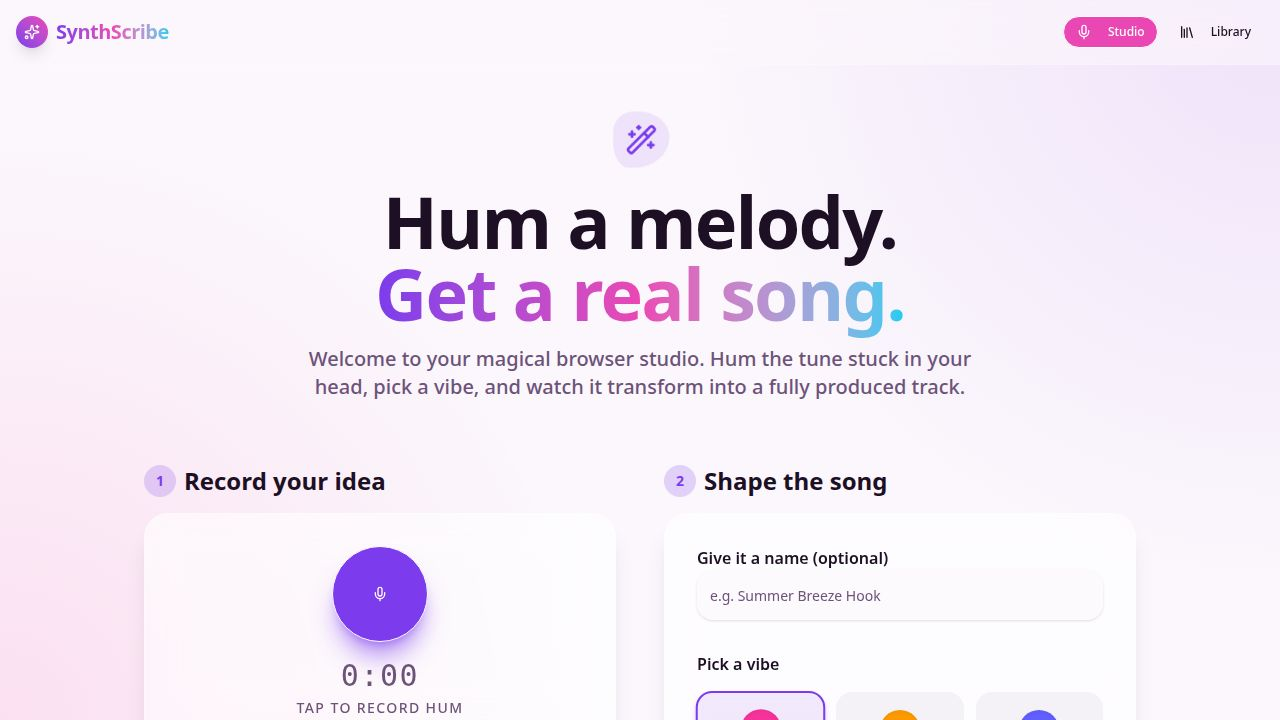
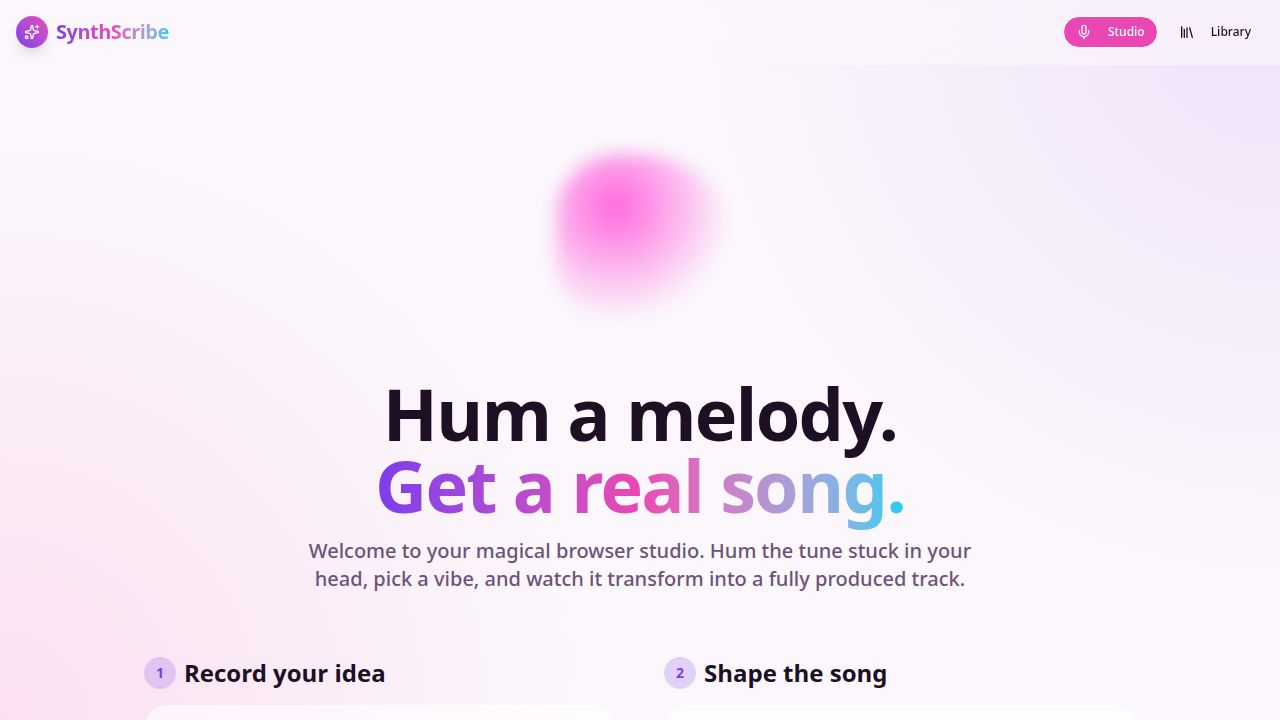
Add hum-matched AI lyric drafting (Task #34)
Users can enter a theme and get lyrics written to fit their hummed melody,
then sung by ElevenLabs.

- Backend: new lib/lyrics.ts builds a per-line syllable scaffold from the hum's
  extracted melody notes (gap segmentation, stress detection, contour, mood),
  with a self-contained heuristic syllable counter (no npm dep) and a draft +
  repair loop (±1 syllable tolerance, 2 passes). New lib/nvidia.ts calls a
  user-supplied NVIDIA-hosted Mistral model (OpenAI-compatible; env NVIDIA_API_KEY,
  override NVIDIA_BASE_URL / NVIDIA_MODEL).
- New `theme` column on projects; standalone POST /api/lyrics/draft endpoint
  (re-uploads hum, returns lyrics+key+tempo+lineCount, 503 if NVIDIA unset);
  pipeline auto-drafts when theme is set and lyrics are blank.
- API spec: theme on CreateProjectRequest/Project, /lyrics/draft path + schemas;
  codegen run, TS2308 collision fixed via explicit type re-exports in api-zod.
- Frontend: "What's it about?" theme field + "Write from my hum" button on Home
  (useDraftLyrics); theme shown on Project page.

Why NVIDIA (not OpenAI): OpenAI via Replit AI Integrations was blocked by phone
verification; user supplied an NVIDIA key instead.

Tested: draft endpoint returns 10 melody-matched lines for a synthetic hum;
both typechecks and codegen pass; UI verified via screenshot.

diff --git a/artifacts/api-server/src/lib/lyrics.ts b/artifacts/api-server/src/lib/lyrics.ts
@@ -196,12 +196,20 @@ async function repairLines(
   scaffold: Scaffold,
   theme: string,
 ): Promise<string[]> {
-  let working = [...lines];
+  // Force the array to have exactly one slot per scaffold line: pad short
+  // outputs with blanks (to be written) and drop any extra lines the model
+  // produced beyond the melody.
+  let working = scaffold.lines.map((_, idx) => (lines[idx] ?? "").trim());
+
   for (let pass = 0; pass < MAX_REPAIR_PASSES; pass++) {
+    // A line is an offender if it is missing entirely or off its syllable target.
     const offenders: number[] = [];
-    working.forEach((line, idx) => {
-      const target = scaffold.lines[idx];
-      if (!target) return;
+    scaffold.lines.forEach((target, idx) => {
+      const line = working[idx];
+      if (!line) {
+        offenders.push(idx);
+        return;
+      }
       const got = countLineSyllables(line);
       if (Math.abs(got - target.syllables) > SYLLABLE_TOLERANCE) {
         offenders.push(idx);
@@ -212,8 +220,12 @@ async function repairLines(
     const fixList = offenders
       .map((idx) => {
         const target = scaffold.lines[idx];
-        const got = countLineSyllables(working[idx]);
-        return `Line ${idx + 1} (currently ${got} syllables, needs exactly ${target.syllables}): "${working[idx]}"`;
+        const line = working[idx];
+        if (!line) {
+          return `Line ${idx + 1} (MISSING — write a new line of exactly ${target.syllables} syllables that fits the song)`;
+        }
+        const got = countLineSyllables(line);
+        return `Line ${idx + 1} (currently ${got} syllables, needs exactly ${target.syllables}): "${line}"`;
       })
       .join("\n");
 
@@ -223,11 +235,11 @@ async function repairLines(
           {
             role: "system",
             content:
-              "You are a precise lyric editor. Rewrite only the requested lines so each has the EXACT requested syllable count, keeping the same meaning, rhyme, and theme. Reply with one rewritten line per requested line, in the same order, and nothing else.",
+              "You are a precise lyric editor. Rewrite or write the requested lines so each has the EXACT requested syllable count, keeping the same meaning, rhyme, and theme. Reply with one line per requested line, in the same order, and nothing else.",
           },
           {
             role: "user",
-            content: `Theme: ${theme}\n\nRewrite these lines to their exact syllable counts:\n${fixList}`,
+            content: `Theme: ${theme}\n\nProvide these lines at their exact syllable counts:\n${fixList}`,
           },
         ],
         { temperature: 0.6, maxTokens: 400 },
@@ -282,11 +294,26 @@ export async function draftLyrics(opts: {
     { temperature: 0.85, maxTokens: 700 },
   );
 
-  let lines = parseLines(content, scaffold.lines.length);
-  if (lines.length === 0) {
+  const parsed = parseLines(content, scaffold.lines.length);
+  if (parsed.length === 0) {
     throw new Error("Model returned no usable lyric lines");
   }
-  lines = await repairLines(lines, scaffold, opts.theme);
+  // repairLines returns exactly one slot per scaffold line; it fills missing
+  // lines and fixes off-target syllable counts.
+  const lines = await repairLines(parsed, scaffold, opts.theme);
+
+  // The whole point is that one sung line maps to one melodic phrase, so the
+  // output must cover every scaffold line. If any slot is still blank after
+  // repair, the lyrics would not align with the hum — fail so the caller can
+  // fall back instead of returning a malformed song.
+  if (
+    lines.length !== scaffold.lines.length ||
+    lines.some((l) => l.trim().length === 0)
+  ) {
+    throw new Error(
+      `Drafted lyrics did not match the melody (${lines.filter((l) => l.trim()).length}/${scaffold.lines.length} lines)`,
+    );
+  }
 
   return { lyrics: lines.join("\n"), lineCount: lines.length };
 }

diff --git a/.agents/memory/synthscribe-melody-faithfulness.md b/.agents/memory/synthscribe-melody-faithfulness.md
@@ -13,15 +13,21 @@ The product pivoted to **real singing**. As of the "Sung songs with AI lyrics" w
    Hum" stem/keepsake, but `mixAndMaster`/hum-layering was removed from
    `pipeline.ts`. backing/vocals stem paths are now null; the single ElevenLabs
    call is the full final track.
-2. **Lyrics = user-written ("Option B").** The user types lyrics in a textarea on
-   Home; ElevenLabs sings those exact words via `generateSong()` in
-   `elevenlabs.ts`. If lyrics are blank, it falls back to an instrumental
+2. **Lyrics = user-written OR AI-drafted from the hum.** The user can type lyrics
+   in a textarea on Home; ElevenLabs sings those exact words via `generateSong()`
+   in `elevenlabs.ts`. If lyrics are blank, it falls back to an instrumental
    (`generateBacking`).
-   **Why Option B and not AI-drafted lyrics:** AI drafting (OpenAI via Replit AI
-   Integrations) was blocked by Replit **phone verification** the user couldn't
-   complete; user chose to write lyrics themselves rather than verify or supply an
-   OpenAI key. If revisiting AI lyric drafting, the blocker is account-level phone
-   verification, not code.
+   **AI lyric drafting is now implemented (supersedes "Option B only"):** the hum's
+   extracted melody notes build a per-line syllable scaffold (`lib/lyrics.ts`),
+   then a **user-supplied NVIDIA-hosted Mistral** model drafts theme-based lyrics
+   shaped to that scaffold (`lib/nvidia.ts`, OpenAI-compatible at
+   integrate.api.nvidia.com/v1; env NVIDIA_API_KEY, override NVIDIA_BASE_URL /
+   NVIDIA_MODEL). A `theme` column on `projects` + a `What's it about?` field drive
+   it. UI: standalone `POST /api/lyrics/draft` (re-uploads hum) behind the "Write
+   from my hum" button; `pipeline.ts` also auto-drafts when theme && !lyrics.
+   **Why NVIDIA and not OpenAI:** OpenAI via Replit AI Integrations was blocked by
+   Replit phone verification the user couldn't complete; they supplied an NVIDIA
+   key instead. Drafting is OFF (503) when NVIDIA_API_KEY is unset.
 3. Song length is sized to the lyrics (~2 words/sec, clamped to ElevenLabs'
    10–60s window), not to hum length, when lyrics are present.
 